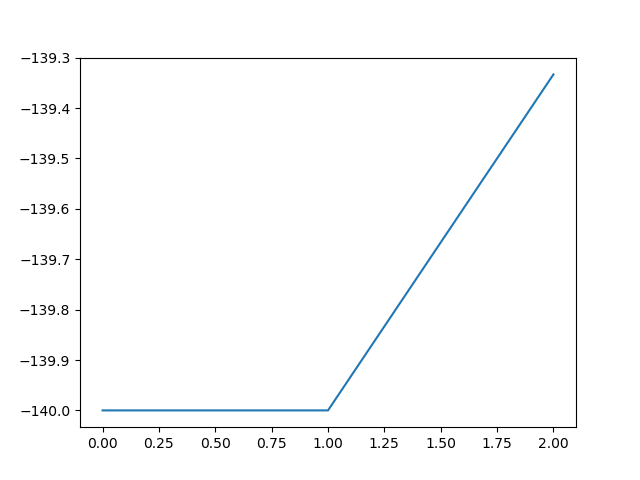
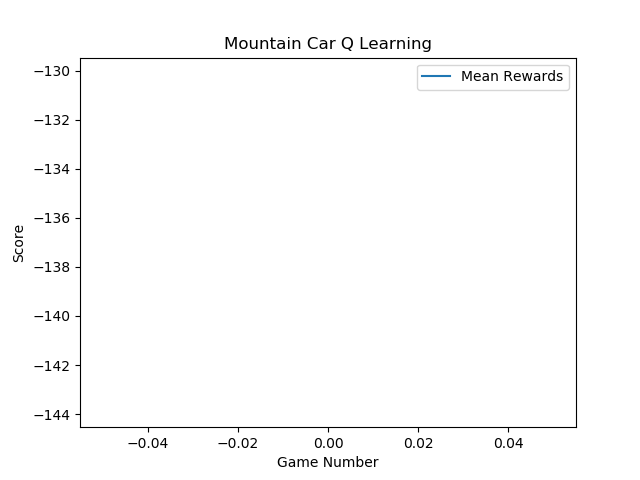
udpated chart

diff --git a/mountaincar-v0.py b/mountaincar-v0.py
@@ -22,7 +22,7 @@ def max_action(Q, state, action=[0, 1, 2]):
 if __name__ == '__main__':
     env = gym.make('MountainCar-v0')
     env._max_episode_steps = 1000
-    n_games = 3
+    n_games = 1
     alpha = 0.1
     gamma = 0.99
     eps = 0
@@ -69,5 +69,9 @@ if __name__ == '__main__':
     mean_rewards = np.zeros(n_games)
     for t in range(n_games):
         mean_rewards[t] = np.mean(total_rewards[max(0, t - 50):(t + 1)])
-    plt.plot(mean_rewards)
+    plt.plot(mean_rewards, label='Mean Rewards')
+    plt.xlabel('Game Number')
+    plt.ylabel('Score')
+    plt.title('Mountain Car Q Learning')
+    plt.legend()
     plt.savefig('mountaincar.png')
